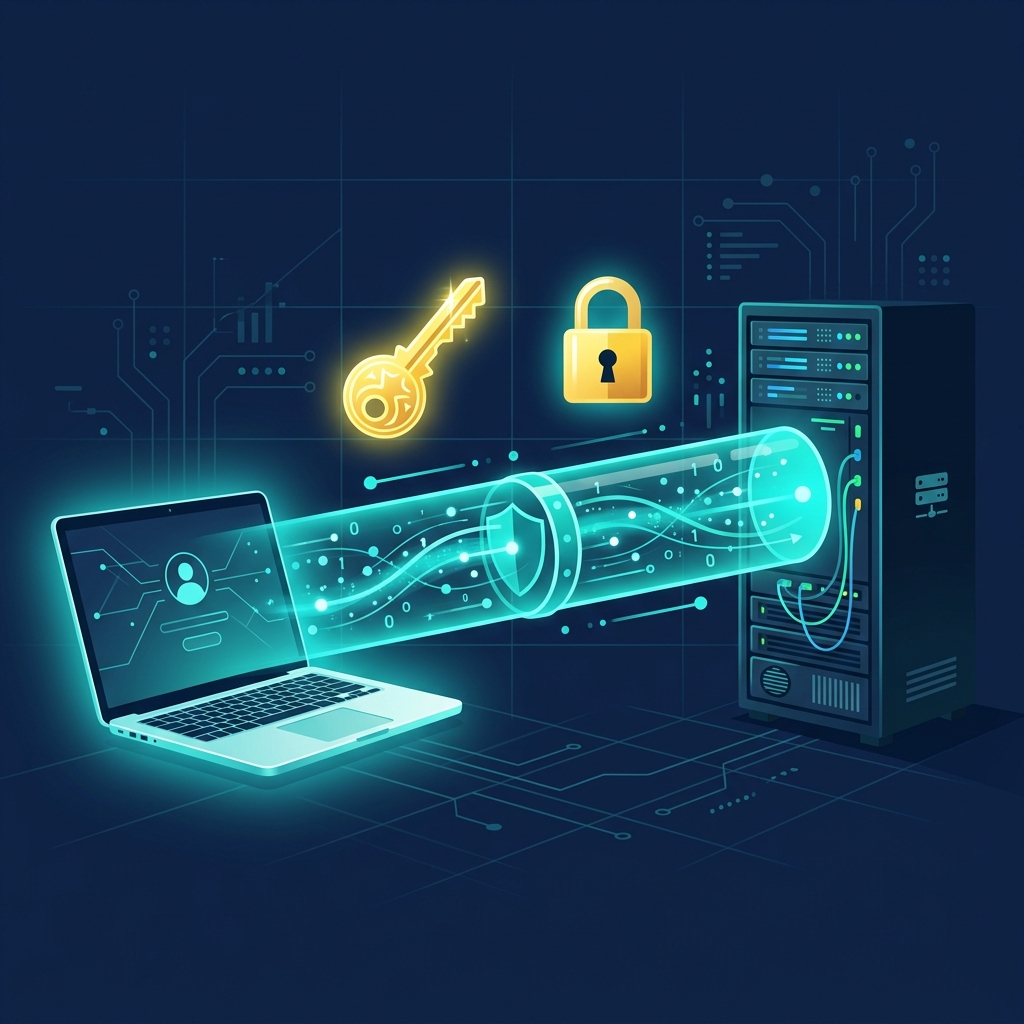
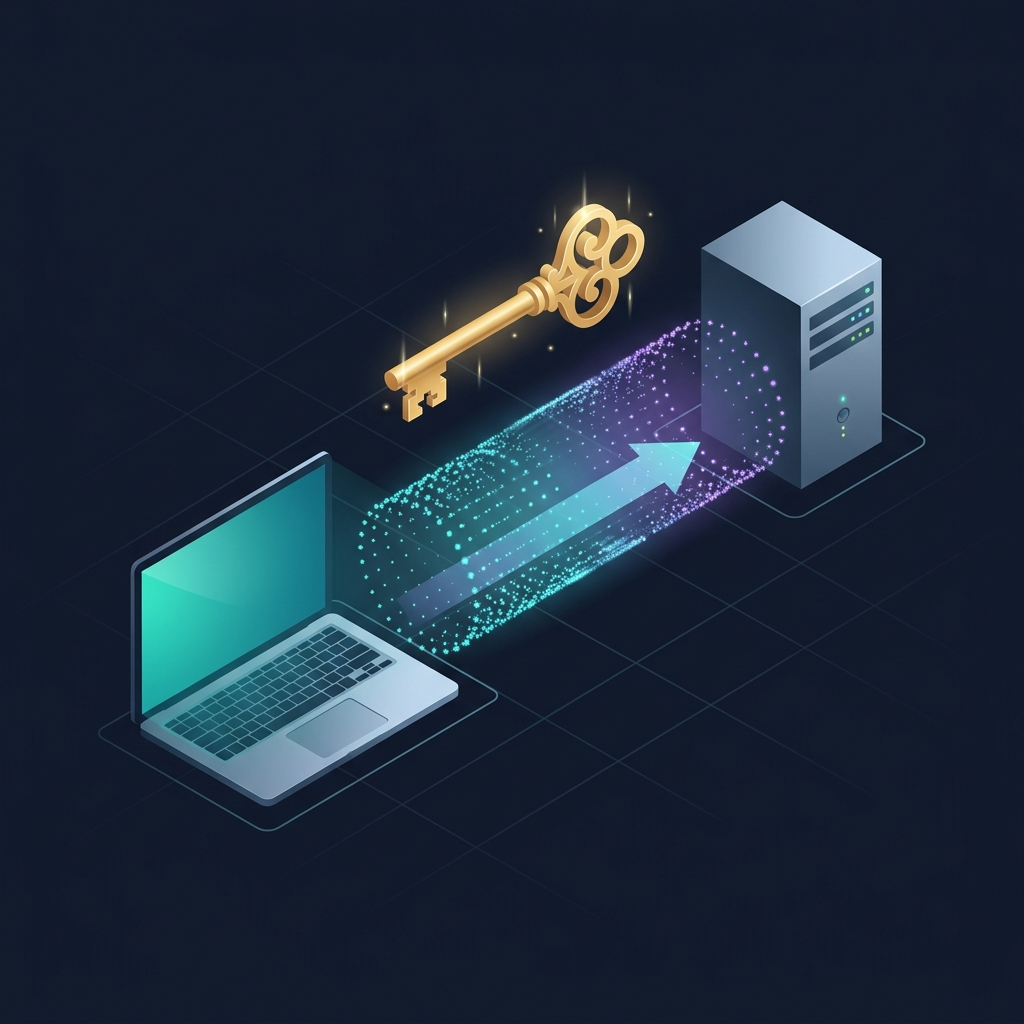
beautify SSH blog: markdown alerts, emoji headers, better image

diff --git a/content/blog/ssh-passwordless-login/index.md b/content/blog/ssh-passwordless-login/index.md
@@ -1,8 +1,9 @@
 ---
 title: "SSH 免密登录教程：从原理到实战，一次配置永久生效"
+subtitle: "面向 Windows → Linux 远程服务器，告别每次输密码的烦恼"
 date: 2026-04-16T14:50:00+08:00
 draft: false
-summary: "面向 Windows → Linux 服务器场景，手把手教你配置 SSH 密钥认证，告别每次输密码的烦恼。"
+summary: "面向 Windows → Linux 服务器场景，手把手教你配置 SSH 密钥认证：原理图解、一键推送公钥、别名配置与常见问题排查。"
 tags:
   - SSH
   - 服务器
@@ -14,126 +15,131 @@ image:
   preview_only: true
 ---
 
-> 适用于 Windows 本地 → Linux 远程服务器的场景。
-> 配置一次，永久免密。
-
----
+> [!NOTE]
+> **适用场景**：Windows 本地 → Linux 远程服务器（HPC 集群、实验室工作站等）。
+> 配置一次，永久免密。全文约 5 分钟。
 
 ## 一、为什么要配置免密登录？
 
-每次 `ssh` 都要输密码，不仅麻烦，还有安全隐患（密码可能被截获）。
-SSH 密钥认证用**非对称加密**替代密码，更安全、更方便。
+每次 `ssh` 都要手动输入密码，不仅**操作繁琐**，还存在安全隐患——密码在网络传输中可能被截获。
+
+SSH 密钥认证使用**非对称加密**替代密码登录，同时解决了这两个问题：
+
+- 🔒 **更安全** — 私钥从不离开本机，无法被中间人截获
+- ⚡ **更方便** — 连接时自动完成身份验证，无需交互
 
 ---
 
-## 二、原理（30 秒看懂）
+## 二、原理图解
 
-SSH 密钥是一对文件：
+SSH 密钥是**成对出现**的两个文件：
 
-| 文件 | 位置 | 作用 | 能否泄露 |
-|------|------|------|---------|
-| **私钥** `id_rsa` | 你的电脑 `~/.ssh/` | 用于签名证明身份 | ❌ 绝对不能 |
-| **公钥** `id_rsa.pub` | 服务器 `~/.ssh/authorized_keys` | 用于验证签名 | ✅ 可以公开 |
+| 文件 | 存放位置 | 作用 | 能否公开 |
+|:----:|:--------|:-----|:-------:|
+| 🔑 **私钥** `id_rsa` | 你的电脑 `~/.ssh/` | 签名，证明"我是我" | ❌ 绝不泄露 |
+| 🔓 **公钥** `id_rsa.pub` | 服务器 `~/.ssh/authorized_keys` | 验证签名 | ✅ 可以公开 |
 
-连接流程：
+### 四步握手流程
 
 ```text
-你的电脑                              远程服务器
-   │                                     │
-   │  ① "我是 <用户名>"                   │
-   │ ──────────────────────────────────→  │
-   │                                     │
-   │  ② 找到公钥，发送随机挑战             │
-   │ ←──────────────────────────────────  │
-   │                                     │
-   │  ③ 用私钥签名挑战                    │
-   │ ──────────────────────────────────→  │
-   │                                     │
-   │  ④ 用公钥验证签名 → 通过！免密登录    │
-   │ ←──────────────────────────────────  │
+    你的电脑 (客户端)                      远程服务器
+        │                                     │
+   ①   │──── "我是 <用户名>" ───────────────→│
+        │                                     │
+   ②   │←─── 找到公钥，发送随机挑战 ─────────│
+        │                                     │
+   ③   │──── 用私钥签名挑战 ────────────────→│
+        │                                     │
+   ④   │←─── 用公钥验证签名 → ✅ 免密登录！ ──│
 ```
 
-> 就像一把锁（公钥）和一把钥匙（私钥）：
-> 你把锁放在服务器门上，钥匙只有你有。
-> 能开锁 = 证明你是你 = 不用密码。
+> [!TIP]
+> **直觉理解**：把公钥当作一把"锁"装在服务器门上，私钥是唯一配套的"钥匙"。能开锁 = 证明身份 = 不用密码。
 
 ---
 
 ## 三、操作步骤
 
-### 3.1 检查是否已有密钥
+### 3.1 🔍 检查是否已有密钥
 
-打开 **cmd** 或 **PowerShell**：
+打开 **PowerShell** 或 **cmd**：
 
-```bash
-type %USERPROFILE%\.ssh\id_rsa.pub
+```powershell
+type $env:USERPROFILE\.ssh\id_rsa.pub
 ```
 
-- 如果显示一串 `ssh-rsa AAAAB3...` → **已有密钥**，跳到 3.3
-- 如果报错 `找不到文件` → 需要生成密钥，继续 3.2
+| 输出结果 | 说明 | 操作 |
+|:--------|:-----|:-----|
+| 显示 `ssh-rsa AAAAB3...` | ✅ 已有密钥 | 直接跳到 **3.3** |
+| 报错"找不到文件" | ❌ 尚未生成 | 继续 **3.2** |
 
-### 3.2 生成密钥（仅首次）
+### 3.2 🔧 生成密钥对（仅首次）
 
-```bash
+```powershell
 ssh-keygen -t rsa -b 4096
 ```
 
-连按三次回车（全部默认，不设密码短语）：
+连按 **三次回车**（全部使用默认值，不设密码短语）：
 
 ```text
 Generating public/private rsa key pair.
-Enter file in which to save the key (C:\Users\你的用户名/.ssh/id_rsa): 回车
-Enter passphrase (empty for no passphrase): 回车
-Enter same passphrase again: 回车
+Enter file in which to save the key (.../.ssh/id_rsa):     ← 回车
+Enter passphrase (empty for no passphrase):                ← 回车
+Enter same passphrase again:                               ← 回车
 ```
 
-生成完毕，会在 `C:\Users\你的用户名\.ssh\` 下产生两个文件：
-- `id_rsa` — 私钥（**不要发给任何人**）
-- `id_rsa.pub` — 公钥（要复制到服务器）
+生成完毕后，`C:\Users\你的用户名\.ssh\` 目录下会出现两个文件：
 
-### 3.3 推送公钥到服务器
+- `id_rsa` — 私钥 ⚠ **绝对不要发给任何人**
+- `id_rsa.pub` — 公钥（需复制到服务器）
 
-```bash
-type %USERPROFILE%\.ssh\id_rsa.pub | ssh -p 端口号 用户名@服务器地址 "mkdir -p ~/.ssh && chmod 700 ~/.ssh && cat >> ~/.ssh/authorized_keys && chmod 600 ~/.ssh/authorized_keys"
+### 3.3 📤 一键推送公钥到服务器
+
+```powershell
+type $env:USERPROFILE\.ssh\id_rsa.pub | ssh -p 端口号 用户名@服务器地址 "mkdir -p ~/.ssh && chmod 700 ~/.ssh && cat >> ~/.ssh/authorized_keys && chmod 600 ~/.ssh/authorized_keys"
 ```
 
-**实际例子**（中科算联云 西北1集群）：
+**实际例子**（中科算联云 · 西北 1 集群）：
 
-```bash
-type %USERPROFILE%\.ssh\id_rsa.pub | ssh -p 50888 <用户名>@c1.hpcmaster.com "mkdir -p ~/.ssh && chmod 700 ~/.ssh && cat >> ~/.ssh/authorized_keys && chmod 600 ~/.ssh/authorized_keys"
+```powershell
+type $env:USERPROFILE\.ssh\id_rsa.pub | ssh -p 50888 <用户名>@c1.hpcmaster.com "mkdir -p ~/.ssh && chmod 700 ~/.ssh && cat >> ~/.ssh/authorized_keys && chmod 600 ~/.ssh/authorized_keys"
 ```
 
-- 首次连接会问 `Are you sure you want to continue connecting?` → 输入 `yes`
-- 然后输入密码 → **这是最后一次输入密码**
+> [!WARNING]
+> 首次连接会提示 `Are you sure you want to continue connecting?`，输入 `yes`。随后需要输入一次密码——**这是你最后一次输入密码**。
 
-命令拆解：
+<details>
+<summary>📋 命令逐段拆解（点击展开）</summary>
 
 | 部分 | 作用 |
-|------|------|
-| `type ...id_rsa.pub` | 读取你的公钥内容 |
-| `\|` | 通过管道传给 SSH |
-| `mkdir -p ~/.ssh` | 在服务器上创建 .ssh 目录 |
+|:-----|:-----|
+| `type ...id_rsa.pub` | 读取本地公钥内容 |
+| `\|` | 通过管道传输给远程 SSH |
+| `mkdir -p ~/.ssh` | 在服务器上创建 `.ssh` 目录 |
 | `chmod 700 ~/.ssh` | 设置目录权限（仅本人可访问） |
-| `cat >> ~/.ssh/authorized_keys` | 把公钥追加到授权列表 |
+| `cat >> ~/.ssh/authorized_keys` | 将公钥追加到授权列表 |
 | `chmod 600 ~/.ssh/authorized_keys` | 设置文件权限（仅本人可读写） |
 
-### 3.4 测试免密登录
+</details>
 
-```bash
+### 3.4 ✅ 验证免密登录
+
+```powershell
 ssh -p 50888 <用户名>@c1.hpcmaster.com "hostname"
 ```
 
-如果直接返回主机名（不要求密码），**配置成功** ✅
+如果**直接返回主机名**而没有要求密码 → 🎉 **配置成功！**
 
 ---
 
 ## 四、进阶：配置 SSH 别名
 
-每次输 `ssh -p 50888 <用户名>@c1.hpcmaster.com` 太长了，可以配别名。
+每次输 `ssh -p 50888 <用户名>@c1.hpcmaster.com` 太长了？配个别名，一劳永逸。
 
-编辑 `C:\Users\你的用户名\.ssh\config`，添加：
+编辑 `C:\Users\你的用户名\.ssh\config` 文件，添加：
 
 ```text
+# ═══ 中科算联云 ═══
 Host hpc-west1
     HostName c1.hpcmaster.com
     Port 50888
@@ -144,77 +150,86 @@ Host hpc-west
     Port 50888
     User <用户名>
 
+# ═══ 矿大内网服务器 ═══
 Host cumt-server
     HostName <内网服务器IP>
     Port 5911
     User wrf4
 ```
 
-之后只需：
+配置后的效果：
 
-```bash
+```powershell
 ssh hpc-west1       # 等价于 ssh -p 50888 <用户名>@c1.hpcmaster.com
 ssh hpc-west        # 等价于 ssh -p 50888 <用户名>@c2.hpcmaster.com
-ssh cumt-server     # 等价于 ssh -p 5911 wrf4@<内网服务器IP>
+ssh cumt-server     # 等价于 ssh -p 5911  wrf4@<内网服务器IP>
 ```
 
-`scp` 也能用别名：
+> [!TIP]
+> `scp` 也支持别名，文件传输同样变简洁：
+> ```powershell
+> scp 本地文件 hpc-west1:/data/user/<用户名>/目标路径/
+> ```
+
+---
+
+## 五、常见问题排查
+
+### ❓ 推送公钥后还是要密码？
+
+**依次检查以下三项：**
+
+**① 权限问题**（最常见）——SSH 对文件权限要求极严格：
 
 ```bash
-scp 本地文件 hpc-west1:/data/user/<用户名>/目标路径/
+chmod 700 ~/.ssh
+chmod 600 ~/.ssh/authorized_keys
 ```
 
----
+**② 公钥是否正确追加**：
 
-## 五、常见问题
+```bash
+cat ~/.ssh/authorized_keys
+# 应看到 ssh-rsa AAAAB3... 开头的完整一行
+```
 
-### Q: 推公钥后还是要密码？
+**③ 服务器是否开启密钥认证**：
 
-1. **检查权限**（登录服务器执行）：
-   ```bash
-   chmod 700 ~/.ssh
-   chmod 600 ~/.ssh/authorized_keys
-   ```
-   SSH 对权限要求严格，权限不对会拒绝密钥认证。
+```bash
+grep PubkeyAuthentication /etc/ssh/sshd_config
+# 应为 PubkeyAuthentication yes，若为 no 需联系管理员
+```
 
-2. **检查公钥是否正确追加**：
-   ```bash
-   cat ~/.ssh/authorized_keys
-   ```
-   应该看到 `ssh-rsa AAAAB3...` 开头的一行。
+### ❓ 能给多台服务器配免密吗？
 
-3. **检查服务器是否开启密钥认证**：
-   ```bash
-   grep PubkeyAuthentication /etc/ssh/sshd_config
-   ```
-   应该是 `PubkeyAuthentication yes`。如果是 `no`，需要联系管理员。
+可以。**同一把公钥**可以推送到任意多台服务器——重复执行 3.3 步骤，替换服务器地址即可。
 
-### Q: 能不能给多台服务器配？
+### ❓ 换了电脑怎么办？
 
-可以。同一个公钥可以推送到任意多台服务器。重复执行 3.3 步骤，换不同的服务器地址即可。
+两种方案：
+1. **迁移密钥**：把旧电脑的 `~/.ssh/id_rsa` + `id_rsa.pub` 复制到新电脑同一位置
+2. **重新生成**：在新电脑执行 3.2 → 3.3，重新推送新公钥
 
-### Q: 换了电脑怎么办？
+### ❓ 私钥泄露了怎么办？
 
-把旧电脑的 `~/.ssh/id_rsa` 和 `~/.ssh/id_rsa.pub` 复制到新电脑的同一位置。或者在新电脑生成新密钥，重新推送公钥。
+> [!CAUTION]
+> 私钥泄露属于严重安全事件，请立即执行：
+> 1. 登录**每台**已配置的服务器，编辑 `~/.ssh/authorized_keys`，**删除旧公钥**对应的行
+> 2. 在本地重新 `ssh-keygen` 生成新密钥对
+> 3. 重新推送新公钥到所有服务器
 
-### Q: 私钥泄露了怎么办？
+### ❓ `Warning: remote port forwarding failed for listen port 7890`？
 
-1. 登录每台服务器，编辑 `~/.ssh/authorized_keys`，删除旧公钥那一行
-2. 在本地重新 `ssh-keygen` 生成新密钥对
-3. 重新推送新公钥
-
-### Q: `Warning: remote port forwarding failed for listen port 7890`？
-
-这是代理软件（Clash 等）的端口转发配置导致的，**不影响 SSH 连接**，可以忽略。
-如果想消除这个警告，检查 SSH config 中是否有 `RemoteForward` 相关配置。
+这是代理软件（如 Clash）的端口转发配置导致的，**不影响 SSH 连接**，可以安全忽略。
+如需消除警告，检查 SSH config 中是否有 `RemoteForward` 相关行并移除。
 
 ---
 
-## 六、安全建议
+## 六、安全建议速查
 
-| 做法 | 建议 |
-|------|------|
-| 私钥文件 | **永远不要**发给别人、上传到 GitHub、或复制到不信任的机器 |
-| 密码短语 | 对高安全需求的服务器，建议在 `ssh-keygen` 时设置密码短语 |
-| 定期更换 | 每 1-2 年更换一次密钥对 |
-| `authorized_keys` | 定期检查，删除不再使用的旧公钥 |
+| 🛡 做法 | 📌 建议 |
+|:--------|:--------|
+| 私钥文件 | **永远不要**发给他人、上传 GitHub、或复制到不信任的设备 |
+| 密码短语 | 对高安全需求场景，建议在 `ssh-keygen` 时设置 passphrase |
+| 定期轮换 | 每 **1–2 年**更换一次密钥对 |
+| 清理旧钥 | 定期检查 `authorized_keys`，删除不再使用的旧公钥 |
